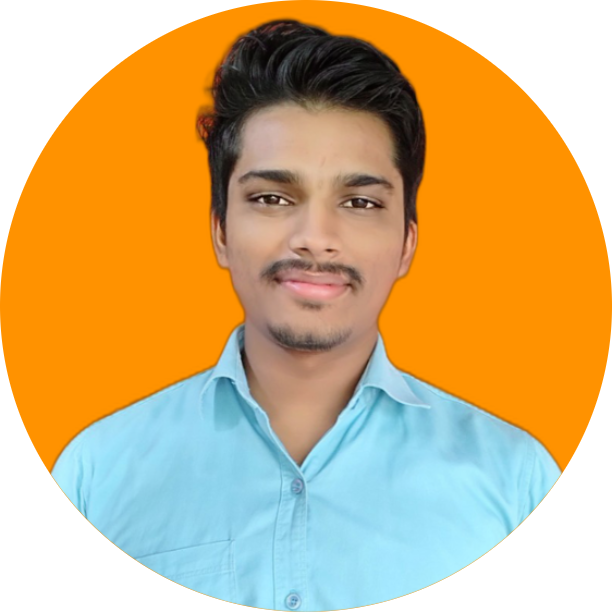
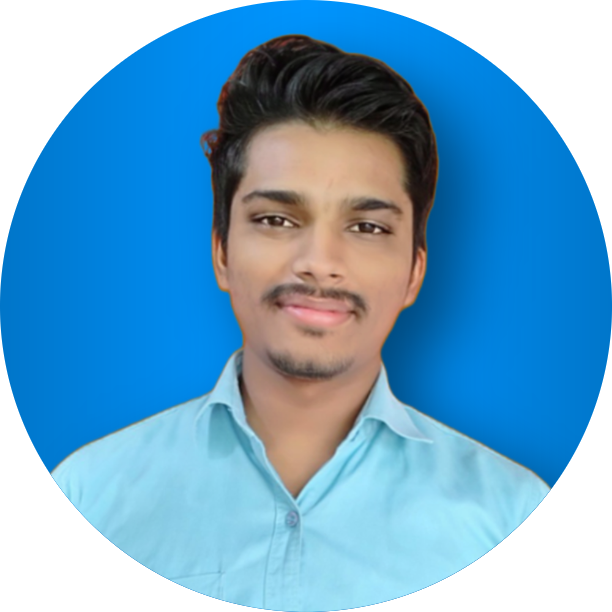
deleting unused images

diff --git a/src/components/Home/Home.js b/src/components/Home/Home.js
@@ -1,6 +1,6 @@
 import React from "react";
 import { Container, Row, Col } from "react-bootstrap";
-import profile from "../../Assets/profile6.png";
+import profile from "../../Assets/profile.png";
 // import Particle from "../Particle";
 import ContectLogo from "./ContectLogo";
 import Type from "./Type";
